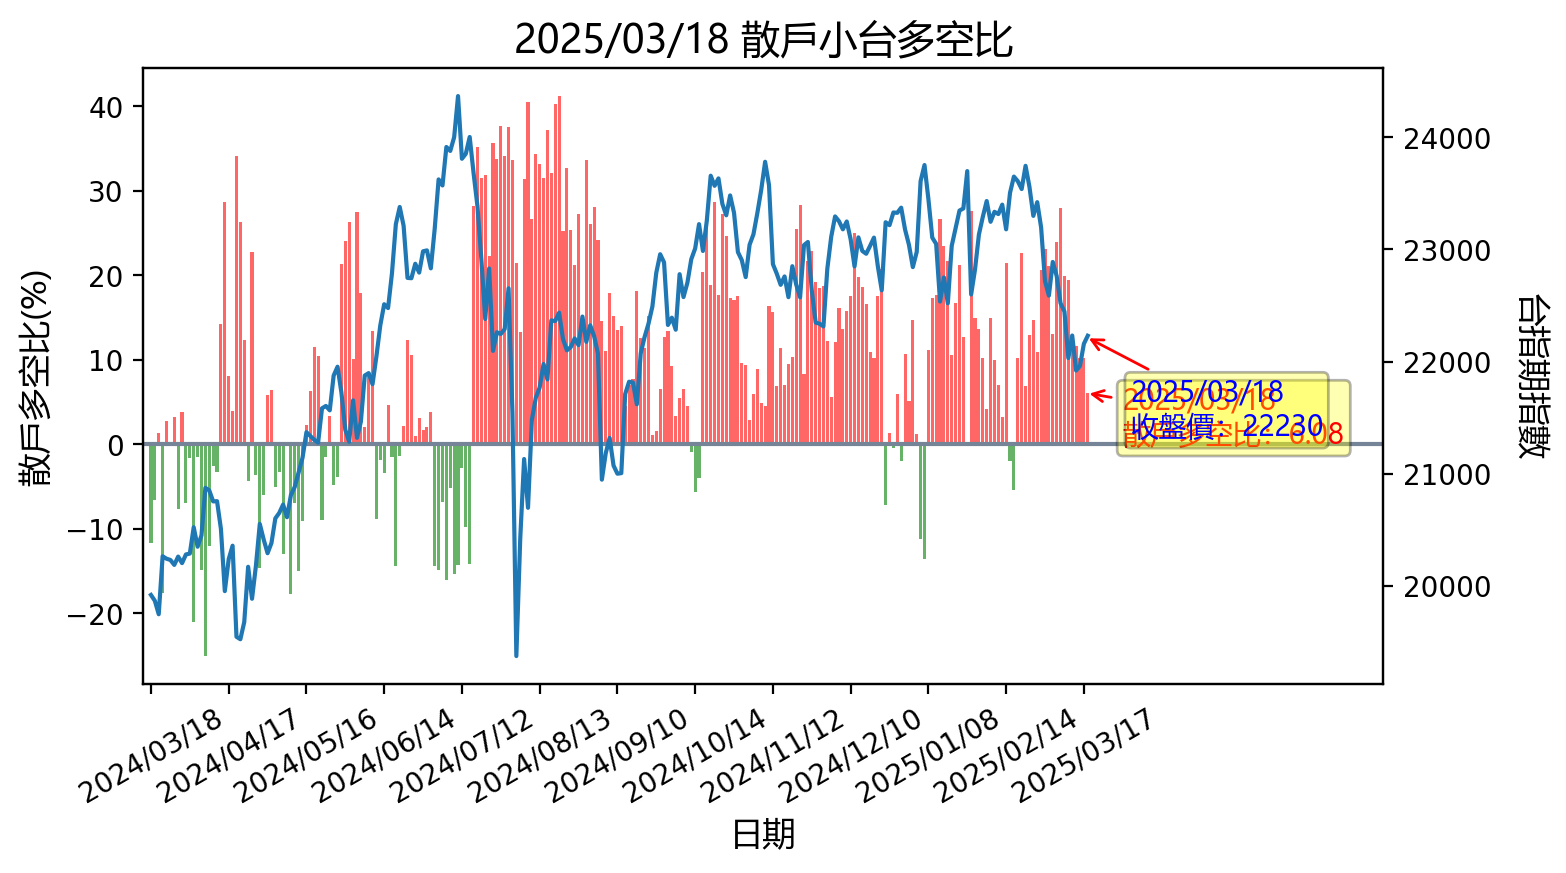
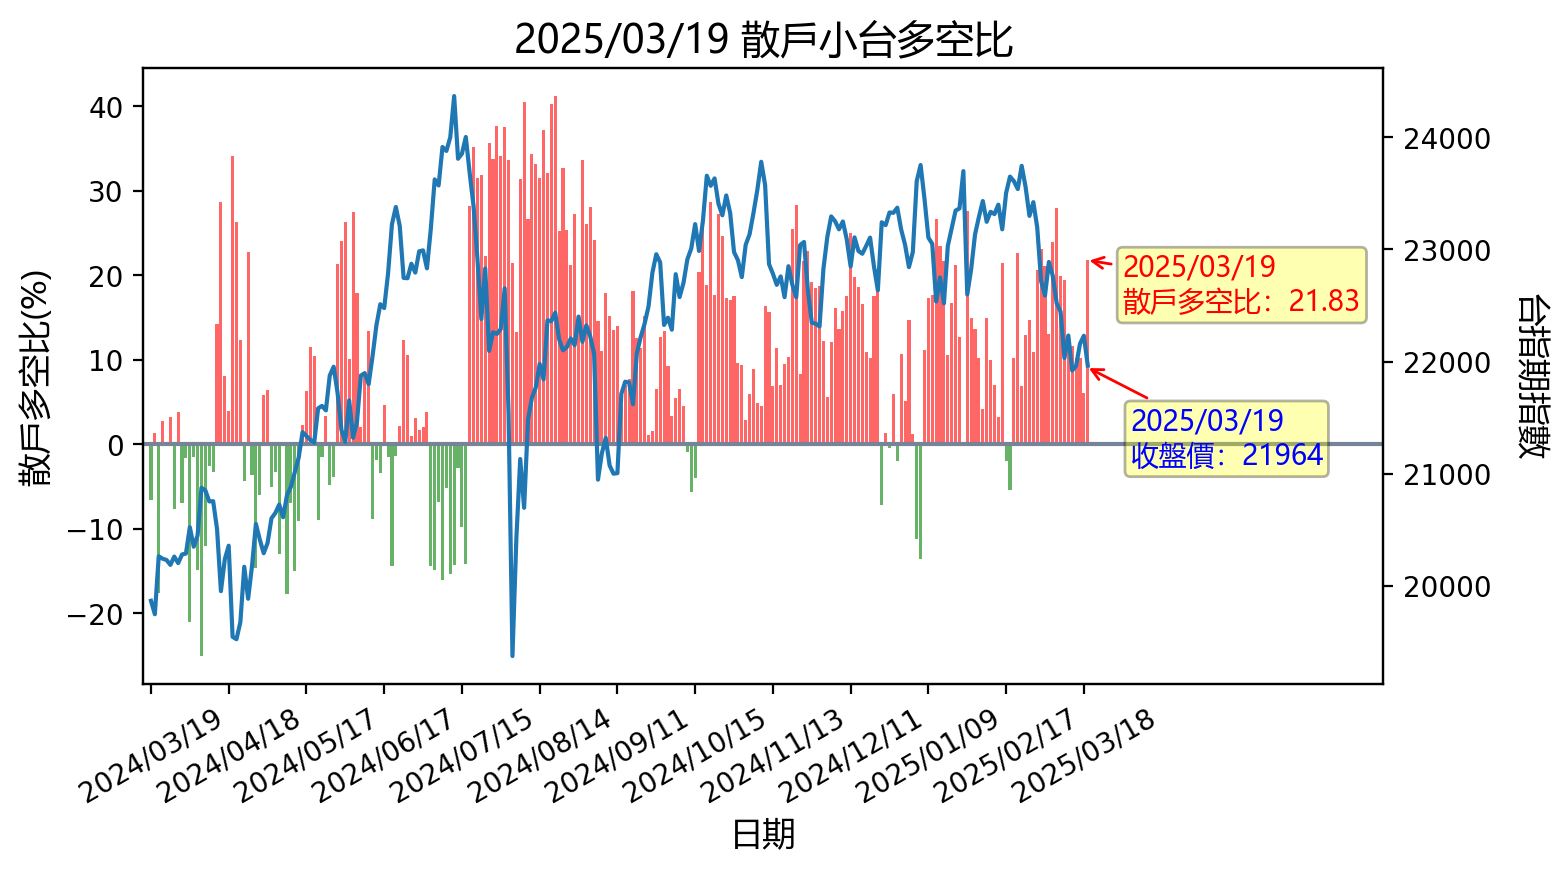
更新時間: Wed Mar 19 16:37:54 CST 2025

diff --git a/README.md b/README.md
@@ -1,12 +1,12 @@
-## 20250318 台指期「預估換倉成本」
+## 20250319 台指期「預估換倉成本」
 ![](images/txfcost.png)
 
-## 20250318 台指期「散戶小台多空比」
+## 20250319 台指期「散戶小台多空比」
 ![](images/bbiri.png)
 
-## 20250318 台指選擇權「Put/Call Ratios」
+## 20250319 台指選擇權「Put/Call Ratios」
 ![](images/pcratio.png)
 
-## 20250318 台指期「大額交易人」
+## 20250319 台指期「大額交易人」
 ![](images/blocktrade.png)
 
